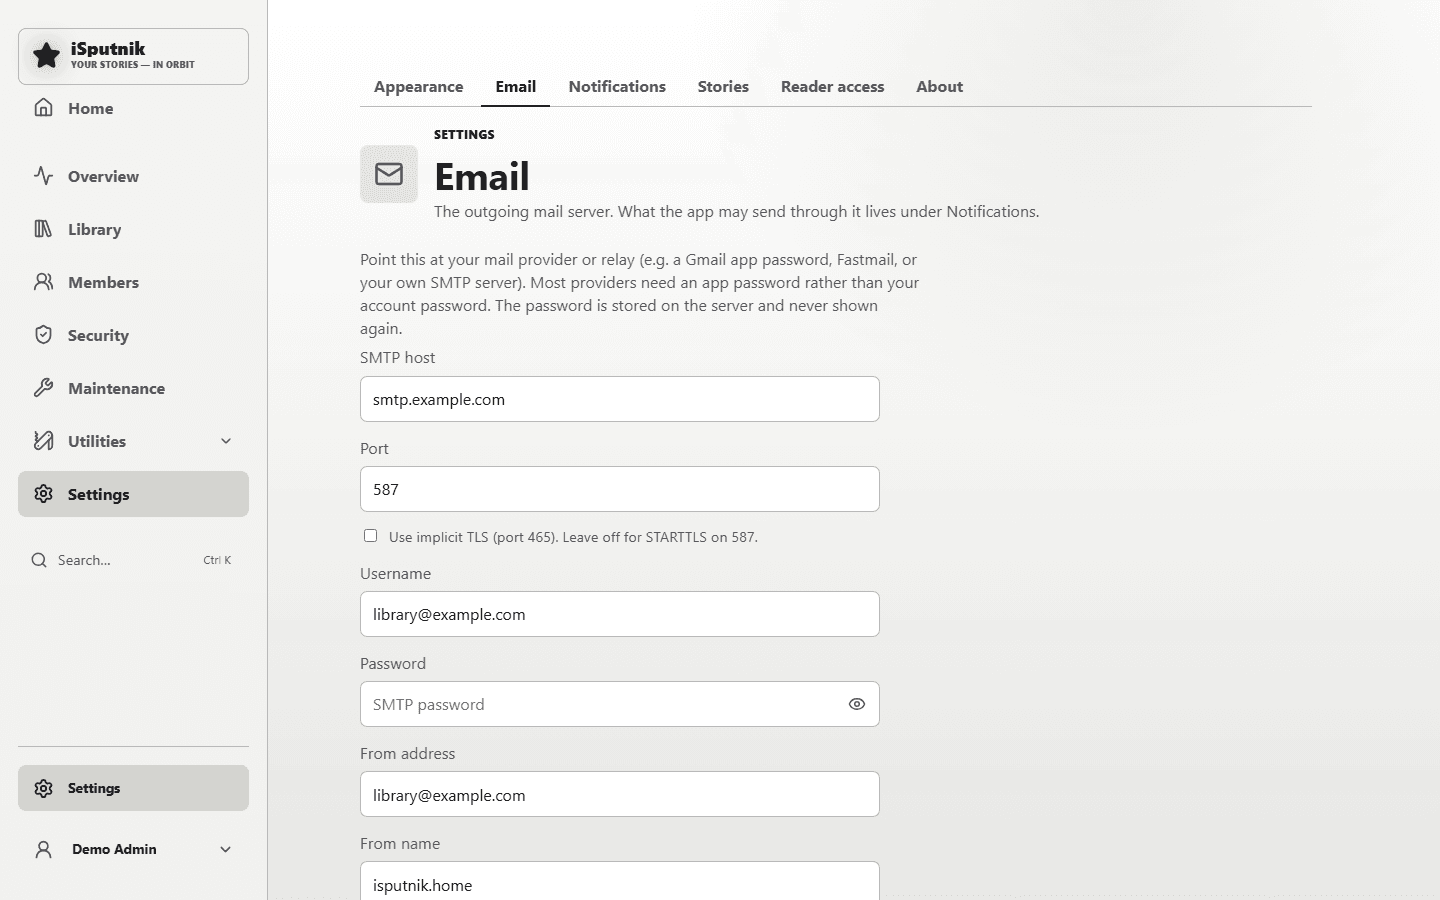
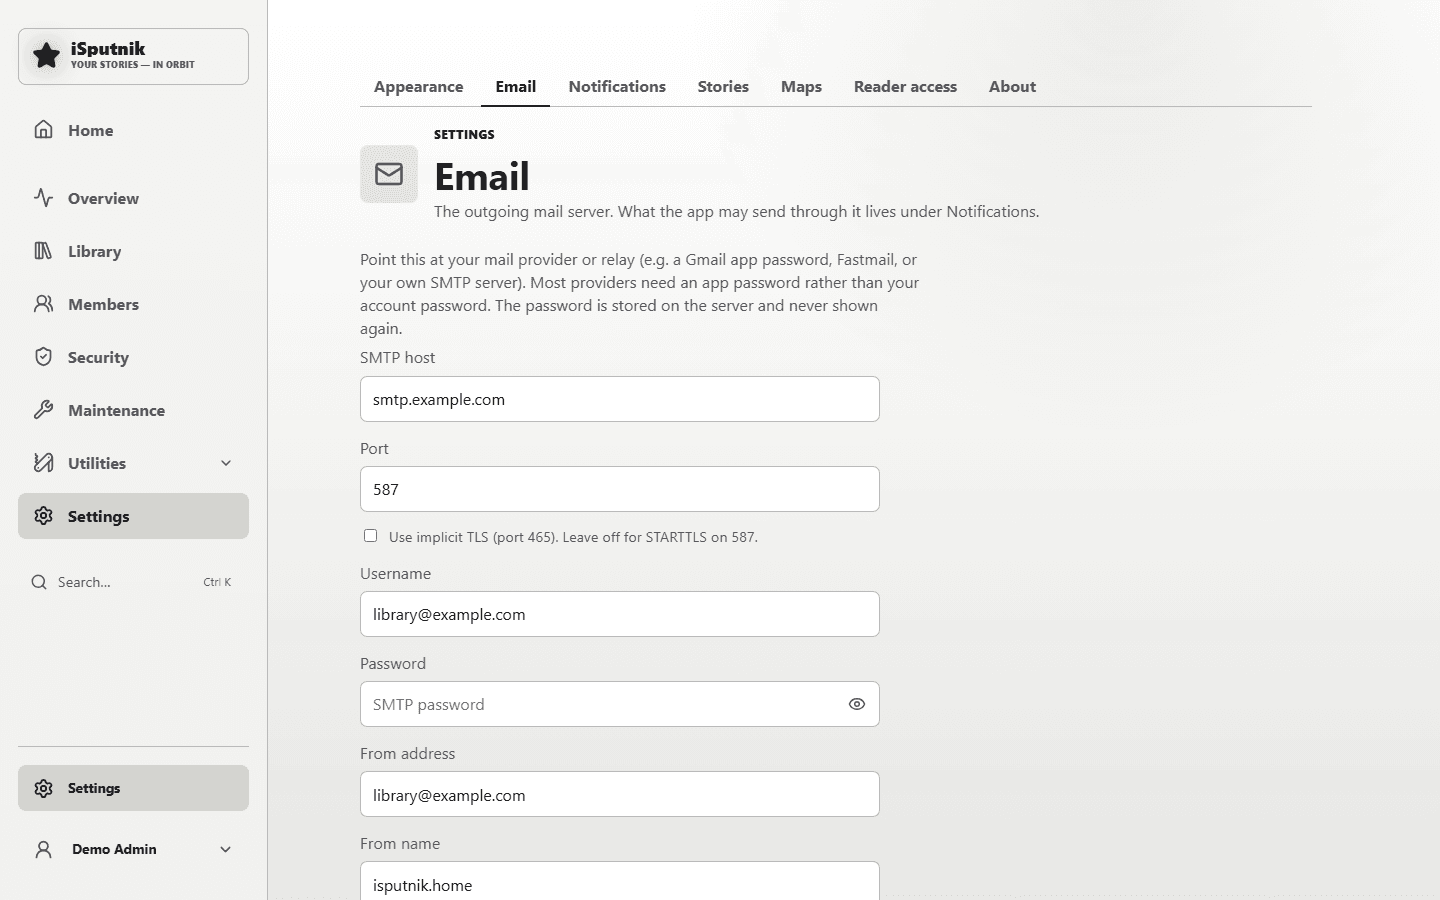
release: 3.80.1 - a picture of the library picker
Guide screenshot of the Storage page's "A library of my own" chooser, and
the Email settings picture refreshed without the retired Gallery tab.

diff --git a/apps/server/src/changelog.ts b/apps/server/src/changelog.ts
@@ -19,6 +19,13 @@ export const RECENT_VERSION_COUNT = 10;
 
 export const VERSION_UPDATES: VersionUpdate[] = [
   {
+    version: "3.80.1",
+    label: "A picture of the library picker",
+    changes: [
+      "The Storage guide under Help shows the chooser with **A library of my own** picked and the list of gallery libraries under it. The Email settings picture is refreshed so its tab row no longer shows the retired Gallery tab."
+    ]
+  },
+  {
     version: "3.80.0",
     label: "One place for the app's storage",
     changes: [

diff --git a/docs/users/storage.md b/docs/users/storage.md
@@ -87,6 +87,11 @@ the verb.
 
 ![The confirmation for the Recycle Bin: the exact folder, what moves, and Move bin](images/102-storage-room-confirm.png)
 
+For the two library rooms, **A library of my own** lists your gallery libraries:
+pick one to hold what the family makes in the app, or to become the Photo Inbox.
+
+![The Made in the app chooser with A library of my own picked and the library list under it](images/105-storage-own-library.png)
+
 Three rooms are worth a word each:
 
 - **Recycle Bin.** Changing its location moves whatever is in the bin to the new
